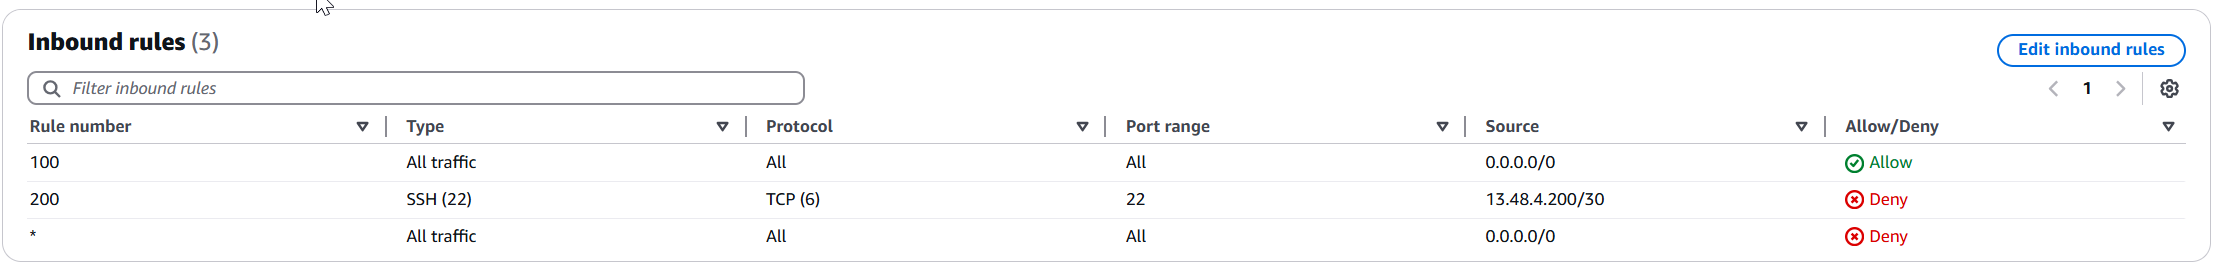
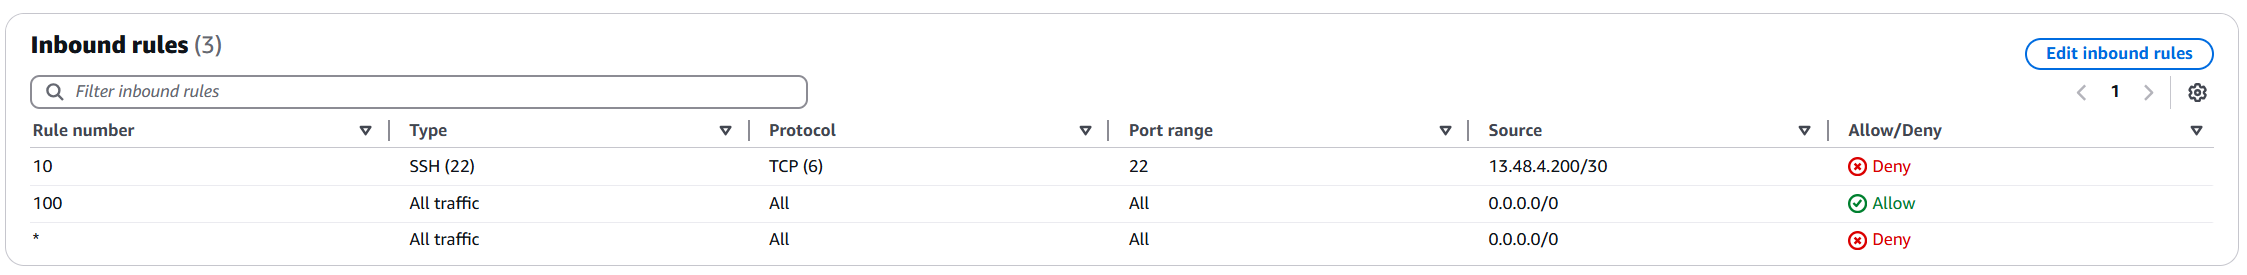
Correction Règle SSH

diff --git a/TP2/Exercice2/README.md b/TP2/Exercice2/README.md
@@ -53,7 +53,7 @@ Network ACL :
 * ID : `acl-0ee24aa0709474b35`
 * Nom (tag Name) : `ymontagnier-acl`
 * Règles entrantes : 
-J'autorise le SSH depuis le security-group du bastion.
+On bloque le SSH depuis le réseau qu'utilise AWS Instant Connect.
 ![alt text](./img/acl1.png)
 
 * Règles sortantes :
